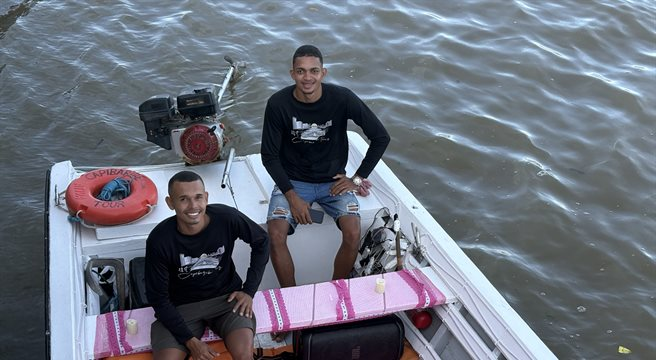
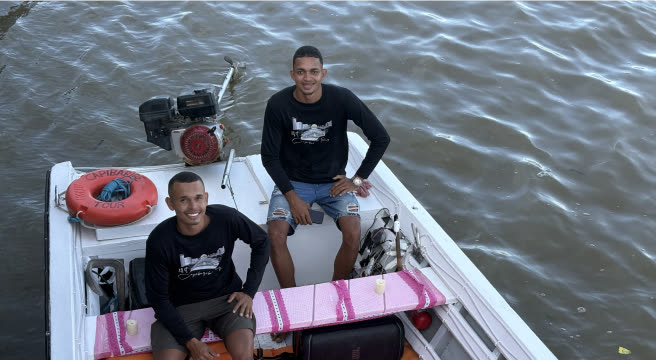
Cards do mapa em Roboto Bold, recortes do Figma nos pins e na faixa do celular, pins próprios para Paço e Cais

diff --git a/js/main.js b/js/main.js
@@ -14,17 +14,21 @@ const MATERIA_TITLES = {
 // dos pins quando a matéria não tem uma própria. Quando uma matéria ganhar foto,
 // troque só aqui.
 const MATERIA_PHOTOS = {
-  2: 'assets/images/materia-2.png',
+  2: 'assets/images/materia-2-card.jpg',
   3: 'assets/images/materia-3-card.jpg',
-  4: 'assets/images/materia-4.png',
-  5: 'assets/images/materia-5.png',
-  6: 'assets/images/materia-6.png',
+  4: 'assets/images/materia-4-card.jpg',
+  5: 'assets/images/materia-5-card.jpg',
+  6: 'assets/images/materia-6-card.jpg',
 };
 
 // Miniatura do card dos pins, quando tiver um enquadramento próprio (feito no
 // Figma, na instância "Pin Matéria N (card)"). Sem entrada aqui, usa a foto principal.
 const MATERIA_PIN_THUMBS = {
+  2: 'assets/images/materia-2-pin.jpg',
   3: 'assets/images/materia-3-pin.jpg',
+  4: 'assets/images/materia-4-pin.jpg',
+  5: 'assets/images/materia-5-pin-terra.jpg',
+  6: 'assets/images/materia-6-pin.jpg',
 };
 
 document.querySelectorAll('.nav__item[href^="materia-"]').forEach((item) => {
@@ -108,10 +112,10 @@ document.querySelectorAll('.nav__item.is-active').forEach((item) => {
 const MAP_POINTS = [
   { nome: 'Marco Zero', materias: [4], lat: -8.063167, lng: -34.871139 },
   { nome: 'Capibaribe Tour', materias: [3], lat: -8.063357, lng: -34.87064 },
-  { nome: 'Paço do Frevo', materias: [5], lat: -8.0615, lng: -34.871583 },
+  { nome: 'Paço do Frevo', materias: [5], lat: -8.0615, lng: -34.871583, fotos: { 5: 'assets/images/materia-5-pin-terra.jpg' } },
   { nome: 'Frio na Goela', materias: [4], lat: -8.063056, lng: -34.872306 },
   { nome: 'Centro de Atendimento ao Turista', materias: [6], lat: -8.061083, lng: -34.871722 },
-  { nome: 'Cais do Sertão', materias: [5], lat: -8.060306, lng: -34.87 },
+  { nome: 'Cais do Sertão', materias: [5], lat: -8.060306, lng: -34.87, fotos: { 5: 'assets/images/materia-5-pin-rio.jpg' } },
   { nome: 'Matéria 2', materias: [2], lat: -8.061389, lng: -34.871056 },
 ];
 
@@ -198,10 +202,13 @@ function buildInteractiveMap(container, current) {
   });
   window.addEventListener('resize', () => map.resize());
 
-  MAP_POINTS.forEach(({ materias, lat, lng }) => {
+  MAP_POINTS.forEach(({ materias, lat, lng, fotos }) => {
     materias.forEach((materia, i) => {
+      const pin = buildPin(materia, current);
+      // Foto própria deste local (ex.: matéria 5 tem um pin no Paço e outro no Cais)
+      if (fotos && fotos[materia]) pin.dataset.thumb = fotos[materia];
       new maplibregl.Marker({
-        element: buildPin(materia, current),
+        element: pin,
         anchor: 'bottom',
         offset: [deslocamento(i, materias.length), 0],
       })
@@ -328,7 +335,7 @@ document.querySelectorAll('.map[data-map]').forEach((map) => {
       const card = document.createElement('span');
       card.className = 'pin__card';
       const thumb = document.createElement('img');
-      thumb.src = MATERIA_PIN_THUMBS[n] || MATERIA_PHOTOS[n];
+      thumb.src = pin.dataset.thumb || MATERIA_PIN_THUMBS[n] || MATERIA_PHOTOS[n];
       thumb.alt = '';
       const text = document.createElement('span');
       text.textContent = tituloDa(n);

diff --git a/index.html b/index.html
@@ -81,7 +81,7 @@
 
     <div class="photos">
       <a class="photo-card" href="materia-2.html" data-materia="2">
-        <img class="photo-card__img" src="assets/images/materia-2.png" alt="Matéria 2">
+        <img class="photo-card__img" src="assets/images/materia-2-card.jpg" alt="Matéria 2">
         <span class="photo-card__overlay"><span class="photo-card__label"><img src="assets/icons/open.svg" alt=""><span class="photo-card__title">Matéria 2</span></span></span>
       </a>
       <a class="photo-card" href="materia-3.html" data-materia="3">
@@ -89,15 +89,15 @@
         <span class="photo-card__overlay"><span class="photo-card__label"><img src="assets/icons/open.svg" alt=""><span class="photo-card__title">O rio também é turismo</span></span></span>
       </a>
       <a class="photo-card" href="materia-4.html" data-materia="4">
-        <img class="photo-card__img" src="assets/images/materia-4.png" alt="Saindo do óbvio: histórias de quem trabalha com o turismo">
+        <img class="photo-card__img" src="assets/images/materia-4-card.jpg" alt="Saindo do óbvio: histórias de quem trabalha com o turismo">
         <span class="photo-card__overlay"><span class="photo-card__label"><img src="assets/icons/open.svg" alt=""><span class="photo-card__title">Saindo do óbvio: histórias de quem trabalha com o turismo</span></span></span>
       </a>
       <a class="photo-card" href="materia-5.html" data-materia="5">
-        <img class="photo-card__img" src="assets/images/materia-5.png" alt="Matéria 5">
+        <img class="photo-card__img" src="assets/images/materia-5-card.jpg" alt="Matéria 5">
         <span class="photo-card__overlay"><span class="photo-card__label"><img src="assets/icons/open.svg" alt=""><span class="photo-card__title">Matéria 5</span></span></span>
       </a>
       <a class="photo-card" href="materia-6.html" data-materia="6">
-        <img class="photo-card__img" src="assets/images/materia-6.png" alt="Matéria 6">
+        <img class="photo-card__img" src="assets/images/materia-6-card.jpg" alt="Matéria 6">
         <span class="photo-card__overlay"><span class="photo-card__label"><img src="assets/icons/open.svg" alt=""><span class="photo-card__title">Matéria 6</span></span></span>
       </a>
     </div>

diff --git a/css/styles.css b/css/styles.css
@@ -1,7 +1,7 @@
 /* Veias do Recife — estilos compartilhados
    Tokens extraídos do Figma (arquivo "Paula", frames Desktop - 1 e Mobile) */
 
-@import url('https://fonts.googleapis.com/css2?family=Inter:wght@500&family=Newsreader:ital,wght@0,400;0,500;1,400;1,500&family=Roboto:ital,wght@0,400;0,500;0,700;0,800;0,900&display=swap');
+@import url('https://fonts.googleapis.com/css2?family=Newsreader:ital,wght@0,400;0,500;1,400;1,500&family=Roboto:ital,wght@0,400;0,500;0,700;0,800;0,900&display=swap');
 
 :root {
   /* Cores: mesmos nomes das variáveis do Figma */
@@ -469,10 +469,11 @@ body.menu-open .drawer { transform: translateX(0); }
   transition: transform 0.2s ease-out;
 }
 
+/* Altura segue a proporção do recorte feito no Figma ("Pin Matéria N (card)") */
 .map .pin .pin__card img {
   position: static;
   width: 100%;
-  height: 36px;
+  height: auto;
   object-fit: cover;
   border-radius: 4px 4px 0 0;
 }
@@ -483,8 +484,8 @@ body.menu-open .drawer { transform: translateX(0); }
   background: var(--azulclaro);
   border-radius: 0 0 4px 4px;
   color: var(--amarelo);
-  font-family: 'Inter', 'Roboto', sans-serif;
-  font-weight: 500;
+  font-family: 'Roboto', system-ui, sans-serif;
+  font-weight: 700;
   font-size: 12px;
   text-align: center;
 }
@@ -493,7 +494,6 @@ body.menu-open .drawer { transform: translateX(0); }
 .map--article .pin__card { width: 192px; }
 
 .map--article .pin .pin__card img {
-  height: 54px;
   border-radius: 6px 6px 0 0;
 }
 
